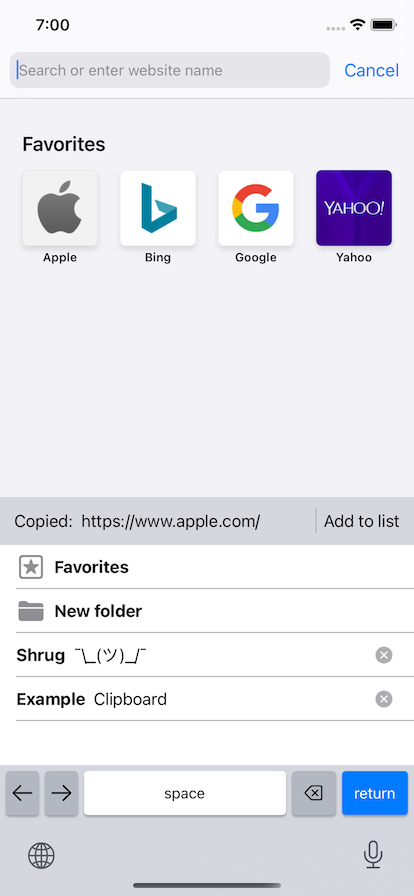
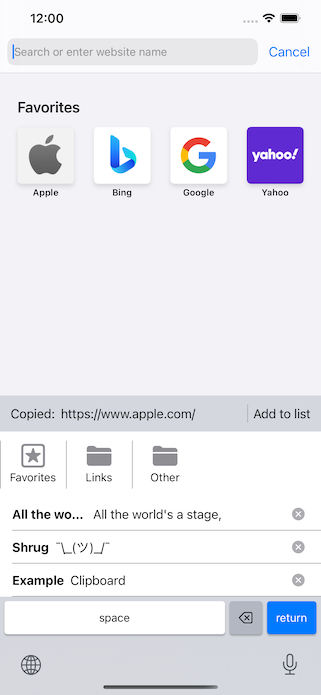
Prep for final release + update README (#21)
* Update screenshots + use in README

* Update README.md

* Final release fixes

* Update description in README

diff --git a/Clips/MainTableViewController.swift b/Clips/MainTableViewController.swift
@@ -29,7 +29,7 @@ class MainTableViewController: UITableViewController, UISearchResultsUpdating {
     
     private var showLastCopied: Bool = true
     private var favoritesEnabled: Bool = true
-    private var shouldAddLastCopied: Bool = false
+    //private var shouldAddLastCopied: Bool = false
     private var lastCopied: [String : Any] = [:]
     private var pasteboardChangeCount: Int = 0
     
@@ -50,6 +50,7 @@ class MainTableViewController: UITableViewController, UISearchResultsUpdating {
     
     override func viewDidLoad() {
         super.viewDidLoad()
+        print("view did load")
 
         // Uncomment the following line to preserve selection between presentations
         // self.clearsSelectionOnViewWillAppear = false
@@ -86,19 +87,17 @@ class MainTableViewController: UITableViewController, UISearchResultsUpdating {
     
     override func viewWillAppear(_ animated: Bool) {
         super.viewWillAppear(animated)
+        print("view will appear")
         
         NotificationCenter.default.addObserver(self, selector: #selector(MainTableViewController.showCopiedToast), name: Notification.Name("ShowCopiedToast"), object: nil) // triggered by individual cells
         NotificationCenter.default.addObserver(self, selector: #selector(MainTableViewController.addLastCopied), name: Notification.Name("AddLastCopiedInMain"), object: nil) // triggered by the Last Copied cell
         
         self.loadData()
         
-        if self.shouldAddLastCopied {
+        /*else if self.shouldAddLastCopied {
             self.addLastCopied()
-        }
-        if let url = DefaultsManager.urlToHandleInMain {
-            self.handleOpenMain(with: url)
-            DefaultsManager.urlToHandleInMain = nil
-        }
+            self.shouldAddLastCopied = false
+        }*/
     }
     
     override func viewWillDisappear(_ animated: Bool) {
@@ -123,6 +122,7 @@ class MainTableViewController: UITableViewController, UISearchResultsUpdating {
     }
     
     @discardableResult public func handleOpenMain(with url: URL) -> Bool {
+        print("handle open main")
         let pathComponents = url.path.split(separator: "/")
         var queries: [String : String] = [:]
         if let queryString = url.query {
@@ -246,11 +246,18 @@ class MainTableViewController: UITableViewController, UISearchResultsUpdating {
      Creates a new clip with the contents of the pasteboard and inserts it into the current folder as the new first clip. Also updates indices and orders the context to save.
      */
     @objc func addLastCopied() {
+        print("add last copied")
+        if DefaultsManager.urlToHandleInMain != nil {
+            return
+        }
+        
         if self.lastCopied.count > 0 {
             if DefaultsManager.askForTitleForLastCopiedInApp {
                 let prompt = UIAlertController(title: AppStrings.NEW_CLIP_FROM_PASTEBOARD_ACTION, message: nil, preferredStyle: .alert)
                 
-                let cancelAction = UIAlertAction(title: AppStrings.CANCEL_ACTION, style: .cancel, handler: nil)
+                let cancelAction = UIAlertAction(title: AppStrings.CANCEL_ACTION, style: .cancel) { (action) in
+                    //self.shouldAddLastCopied = false
+                }
                 let saveAction = UIAlertAction(title: AppStrings.SAVE_ACTION, style: .default) { (action) in
                     var title = prompt.textFields?.first?.text
                     if title == "" {
@@ -271,9 +278,9 @@ class MainTableViewController: UITableViewController, UISearchResultsUpdating {
                 self.createNewClip(title: nil, contents: self.lastCopied, index: 0)
             }
         }
-        else {
+        /*else {
             self.shouldAddLastCopied = true
-        }
+        }*/
     }
     
     private func createNewClip(title: String?, contents: [String : Any], index: Int16) {
@@ -295,7 +302,7 @@ class MainTableViewController: UITableViewController, UISearchResultsUpdating {
         if self.saveContext() {
             self.tableView.reloadData()
             self.showToast(message: AppStrings.TOAST_MESSAGE_ADDED)
-            self.shouldAddLastCopied = false
+            //self.shouldAddLastCopied = false
         }
     }
     

diff --git a/Clips/AppDelegate.swift b/Clips/AppDelegate.swift
@@ -54,13 +54,9 @@ class AppDelegate: UIResponder, UIApplicationDelegate {
     }
     
     func application(_ app: UIApplication, open url: URL, options: [UIApplication.OpenURLOptionsKey : Any] = [:]) -> Bool {
-        guard let navigation = self.window?.rootViewController as? UINavigationController else {
-            return false
-        }
+        print("open url")
         if url.path.starts(with: "/main") {
             DefaultsManager.urlToHandleInMain = url
-            navigation.dismiss(animated: false, completion: nil)
-            navigation.popToRootViewController(animated: false)
         }
         return true
     }
@@ -89,6 +85,7 @@ class AppDelegate: UIResponder, UIApplicationDelegate {
 
     func applicationWillEnterForeground(_ application: UIApplication) {
         // Called as part of the transition from the background to the active state; here you can undo many of the changes made on entering the background.
+        print("will enter foreground")
         guard let navigation = self.window?.rootViewController as? UINavigationController else {
             return
         }
@@ -112,7 +109,17 @@ class AppDelegate: UIResponder, UIApplicationDelegate {
 
     func applicationDidBecomeActive(_ application: UIApplication) {
         // Restart any tasks that were paused (or not yet started) while the application was inactive. If the application was previously in the background, optionally refresh the user interface.
-        if DefaultsManager.autoAddLastCopiedInApp && DefaultsManager.pasteboardCountForAutoAdd != ClipboardManager.pasteboardChangeCount {
+        print("did become active")
+        if let url = DefaultsManager.urlToHandleInMain {
+            guard let navigation = self.window?.rootViewController as? UINavigationController, let rootView = navigation.viewControllers.first as? MainTableViewController else {
+                return
+            }
+            navigation.dismiss(animated: false, completion: nil)
+            navigation.popToRootViewController(animated: false)
+            rootView.handleOpenMain(with: url)
+            DefaultsManager.urlToHandleInMain = nil
+        }
+        else if DefaultsManager.autoAddLastCopiedInApp && DefaultsManager.pasteboardCountForAutoAdd != ClipboardManager.pasteboardChangeCount {
             NotificationCenter.default.post(name: Notification.Name("AddLastCopiedInMain"), object: nil)
             DefaultsManager.pasteboardCountForAutoAdd = ClipboardManager.pasteboardChangeCount
         }

diff --git a/ClipsKit/ClipboardManager.swift b/ClipsKit/ClipboardManager.swift
@@ -86,6 +86,7 @@ public class ClipboardManager: NSObject {
             }
         }
         UIPasteboard.general.items = [itemVar]
+        DefaultsManager.pasteboardCountForAutoAdd = pasteboardChangeCount
     }
     
     public static var pasteboardChangeCount: Int {

diff --git a/README.md b/README.md
@@ -1,15 +1,17 @@
 # Copy Better
 
-Juggling between pasting links, images, notes, and text faces? Copy Better makes life a whole lot easier.
+Copy Better keeps all the things you need to copy and paste in one place, available at a simple tap.
+
+Current version: 2.1 (September 2021)
 
 ## Description
 
-Copy Better keeps all the things you need to copy/paste in one place and available at a simple tap.
-- In the app, add clips from the system clipboard, edit them, and create new ones. Your clips can be plain text, formatted text, and/or images.
-- From the Today widget, paste a clip without needing to open the app, and add new ones from the system clipboard.
-- Through the custom keyboard, insert any of your clips into a text field quickly, without opening up new screens at all, and add clips from the system clipboard.
-- With the Share extension, save text or images as new clips from websites, Photos, or anywhere else with shareable content.
-- Other features include folders, a Home Screen widget, and the favorites system.
+- Add clips from the system clipboard, edit them, and create new ones directly in the app. Your clips can be plain text, formatted text, and/or images.
+- Create folders to organize your clips, and mark important ones as favorites.
+- Add the Favorite Clips widget to your home screen for easy access.
+- Use the Copy Better keyboard to paste your clips quickly in other apps.
+- Configure Siri shortcuts to create and paste clips anywhere.
+- Use the Share extension to save new clips from websites, Photos, or anywhere else with shareable content.
 
 ## App Store link
 
@@ -20,7 +22,13 @@ Or direct link: https://apps.apple.com/us/app/copy-better/id1456564050
 ## Screenshots
 
 <img src="./screenshots/main.png" width="250">
+<img src="./screenshots/main_dark.png" width="250">
 <img src="./screenshots/folder.png" width="250">
-<img src="./screenshots/clip.png" width="250">
+<img src="./screenshots/clip_1.png" width="250">
+<img src="./screenshots/clip_2.png" width="250">
 <img src="./screenshots/keyboard.png" width="250">
-<img src="./screenshots/today_widget.png" width="250">
+<img src="./screenshots/widgets.png" width="250">
+
+## Copyright
+
+Copyright © 2021 William Wu. All rights reserved.
